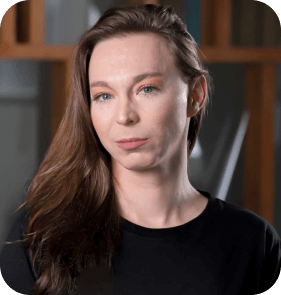
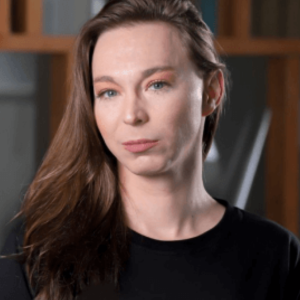
feita a troca de fotos da parte nosso time

diff --git a/src/app/components/NossoTime/time.js b/src/app/components/NossoTime/time.js
@@ -13,9 +13,9 @@ import aliceCarneiro from "./img/conselho/alice-carneiro.png";
 import andreRocha from "./img/conselho/andre-rocha.png";
 import diegoChierighini from "./img/conselho/diego-chierighini.png";
 import eliezerLeal from "./img/conselho/eliezer-leal.png";
-import talitaMatos from "./img/conselho/talita-matos.png";
+import talitaMatos from "./img/conselho/talita.png";
 import thiaraGaldinho from "./img/conselho/thiara-galdinho.png";
-import henriqueBlanck from "./img/conselho/henrique-blanck.jpg"
+import henriqueBlanck from "./img/conselho/henrique-blanck.png"
 import pedroBachiega from "./img/conselho/pedro-bachiega.jpg";
 
 export const Diretoria = [
